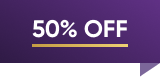
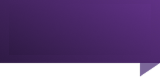
changes

Changed region(s): [[0.1875, 0.2597, 0.5, 0.4935], [0.5, 0.2338, 0.8125, 0.4935], [0.1875, 0.5714, 0.8125, 0.6234]]

diff --git a/dram-prime.html b/dram-prime.html
@@ -98,12 +98,7 @@
 
       <!---------- Why Join the Club ? -section-------->
       <section class="the-club bg-color mt-0">
-        <div class="container">
-          <div class="services-heding">
-            <h2>Why Join<br> the Club ?</h2>
-            <p>Prime brings you closer to the craft, culture, and<br>
-              camaraderie of whisky like never before.</p>
-          </div>
+        <div class="container"> 
           <div class="services-heding club-jion">
             <h2>Why Join the Club ?</h2>
             <p>Prime brings you closer to the craft, culture, and
@@ -111,6 +106,7 @@
           </div>
           <div class="row  bgtab-color">
             <div class="col-md-4 sticky-div">
+              <h2>Why Join the Club ?</h2>
               <ul class="nav flex-column w-fulls">
                 <li class="nav-item">
                   <a class="nav-link active">Discounted events <svg width="27"
@@ -153,6 +149,10 @@
               </ul>
             </div>
             <div class="col-md-8">
+              <div class="services-heding leftaline"> 
+                <p>Prime brings you closer to the craft, culture, and<br>
+                  camaraderie of whisky like never before.</p>
+              </div>
                   <div class="season_flexs">
                     <div class="text-section">
                       <img src="images/percent.svg" alt="Whisky Event">
@@ -225,7 +225,7 @@
             <!-- Featured Event -->
             <div class="row mb-4 gap_2">
               <div class="col-12 col-lg-6 reletive">
-                <div class="les"><img src="./images/50of.png"> </div>
+                <div class="les"><img src="./images/50of.png"> <h4>50% OFF</h4></div>
                 <div class="event-card savings_events">
                   <img src="./images/upcoming-img-3.jpg"
                     alt="An Evening with Aberlour">
@@ -261,7 +261,7 @@
               </div>
 
               <div class="col-12 col-lg-6 mt-lg-0 mt-3 reletive">
-                <div class="les"><img src="./images/50of.png"> </div>
+                <div class="les"><img src="./images/50of.png"> <h4>50% OFF</h4></div>
                 <div class="event-card savings_events">
                   <img src="./images/up2.png" alt="An Evening with Aberlour">
                   <span class="event-time ab blackbg">In 1 month 12 days</span>
@@ -316,12 +316,12 @@
         </section>
         <!-- FOOTER SECTION START -->
       </main>
-      <footer class="footer" style="background-image: url('./images/footer-bg.png'); ">
+      <footer class="footer bg-color-gr">
         <div class="container">
           <div class="footer-container">
             <div class="footer-left">
-              <a href="#"><img src="./images/Logo.svg" alt="Logo"></a>
-              <p>Step into our world of whiskey</p>
+              <a href="#"><img src="./images/g10.svg" alt="Logo"></a>
+              <p>In the spirit of you</p>
               <div class="social-icons">
                 <a href="#"><i class="fab fa-instagram"></i></a>
                 <a href="#"><i class="fab fa-facebook-f"></i></a>

diff --git a/css/style.css b/css/style.css
@@ -3717,14 +3717,15 @@ span.prime {
 
 .banner-events h2 {
   color: #fff;
-  font-size: 54px;
+  font-size: 51px;
 }
 
 .banner-events span {
-  color: rgba(238, 210, 116, 1);
-  font-style: italic;
-  font-family: "DM Serif Displayy", serif;
-  font-weight: 600;
+    color: rgba(238, 210, 116, 1);
+    font-style: italic;
+    font-family: "DM Serif Displayy", serif;
+    font-weight: 600;
+    font-size: 54px;
 }
 
 .banner-events p {
@@ -3804,7 +3805,7 @@ span.rimen i.far.fa-question-circle {
 }
 /*************************Dram prime css******************************/
 .event-card.savings_events .Olives.li-box {
-  margin-bottom: 60px;
+  margin-bottom: 23px;
 }
 
 .event-card.savings_events:hover .Olives {
@@ -3825,11 +3826,18 @@ span.event-time.ab.blackbg {
 .les {
   position: absolute;
   width: 160px;
-  right: 11px;
+  right: 12.5px;
   top: 0px;
   z-index: 9;
 }
-
+.les h4 {
+  position: absolute;
+  top: 13px;
+  left: 32px;
+  color: #ffffff;
+  font-weight: 700;
+  border-bottom: 3px solid #C49C44;
+}
 .row.mb-4.gap_2 {
   --bs-gutter-x: 60px;
 }
@@ -3845,8 +3853,14 @@ ul.pl-0 {
 
 .event-card.savings_events:hover .hover_move {
   max-height: 75px;
+  margin-top: 12px;
 }
-
+footer.footer.bg-color-gr {
+  background-color: #171717;
+}
+footer.footer.bg-color-gr h5 { 
+  color: #ffffff85; 
+}
 .event-card.savings_events .hover_move {
   margin-top: 0px;
   margin-bottom: 15px;
@@ -3936,7 +3950,9 @@ p.per-year {
 .the-club .services-heding {
   justify-content: space-between;
 }
-
+.services-heding.leftaline {
+  justify-content: end;
+}
 section.the-club.bg-color.mt-0 {
   padding-bottom: 172px;
   padding-top: 120px;
@@ -5677,7 +5693,7 @@ input.form-control.border-1 {
 }
 .event-card h5 {
   font-size: 24px;
-  margin-bottom: 16px;
+  margin-bottom: 0px;
 }
 a.btn.btn-dark.mt-2 {
   width: 71%;
